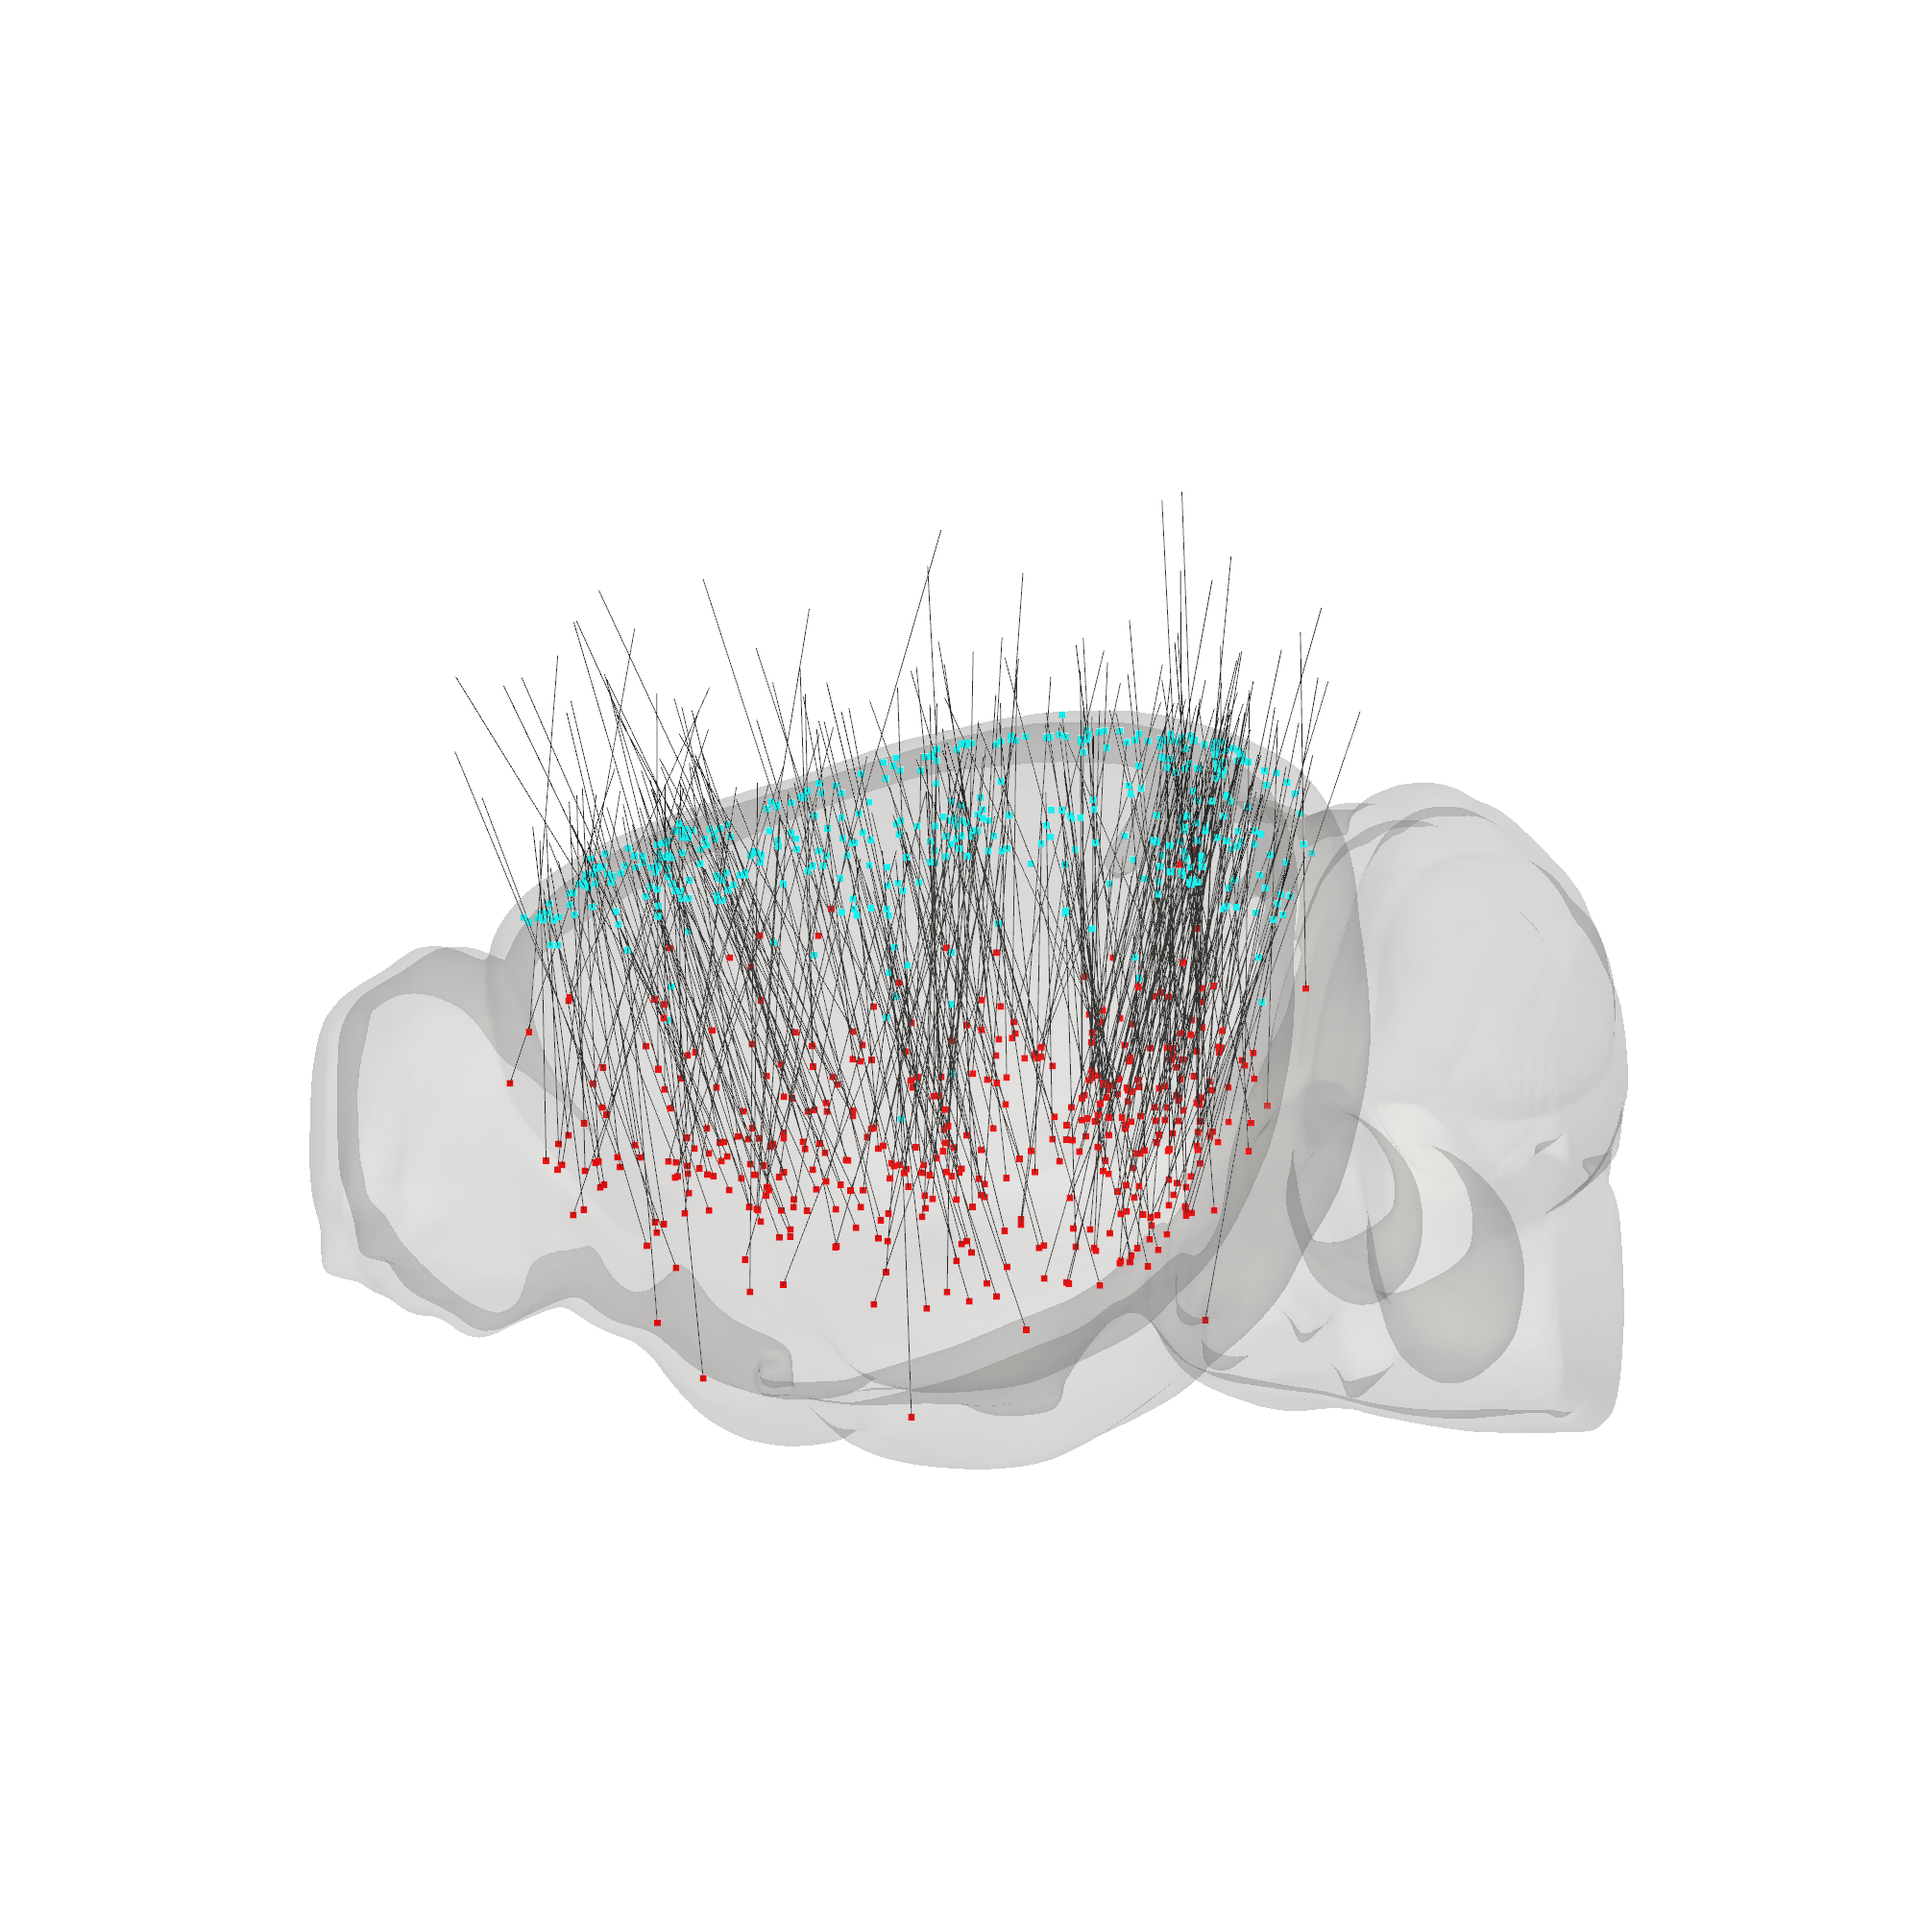
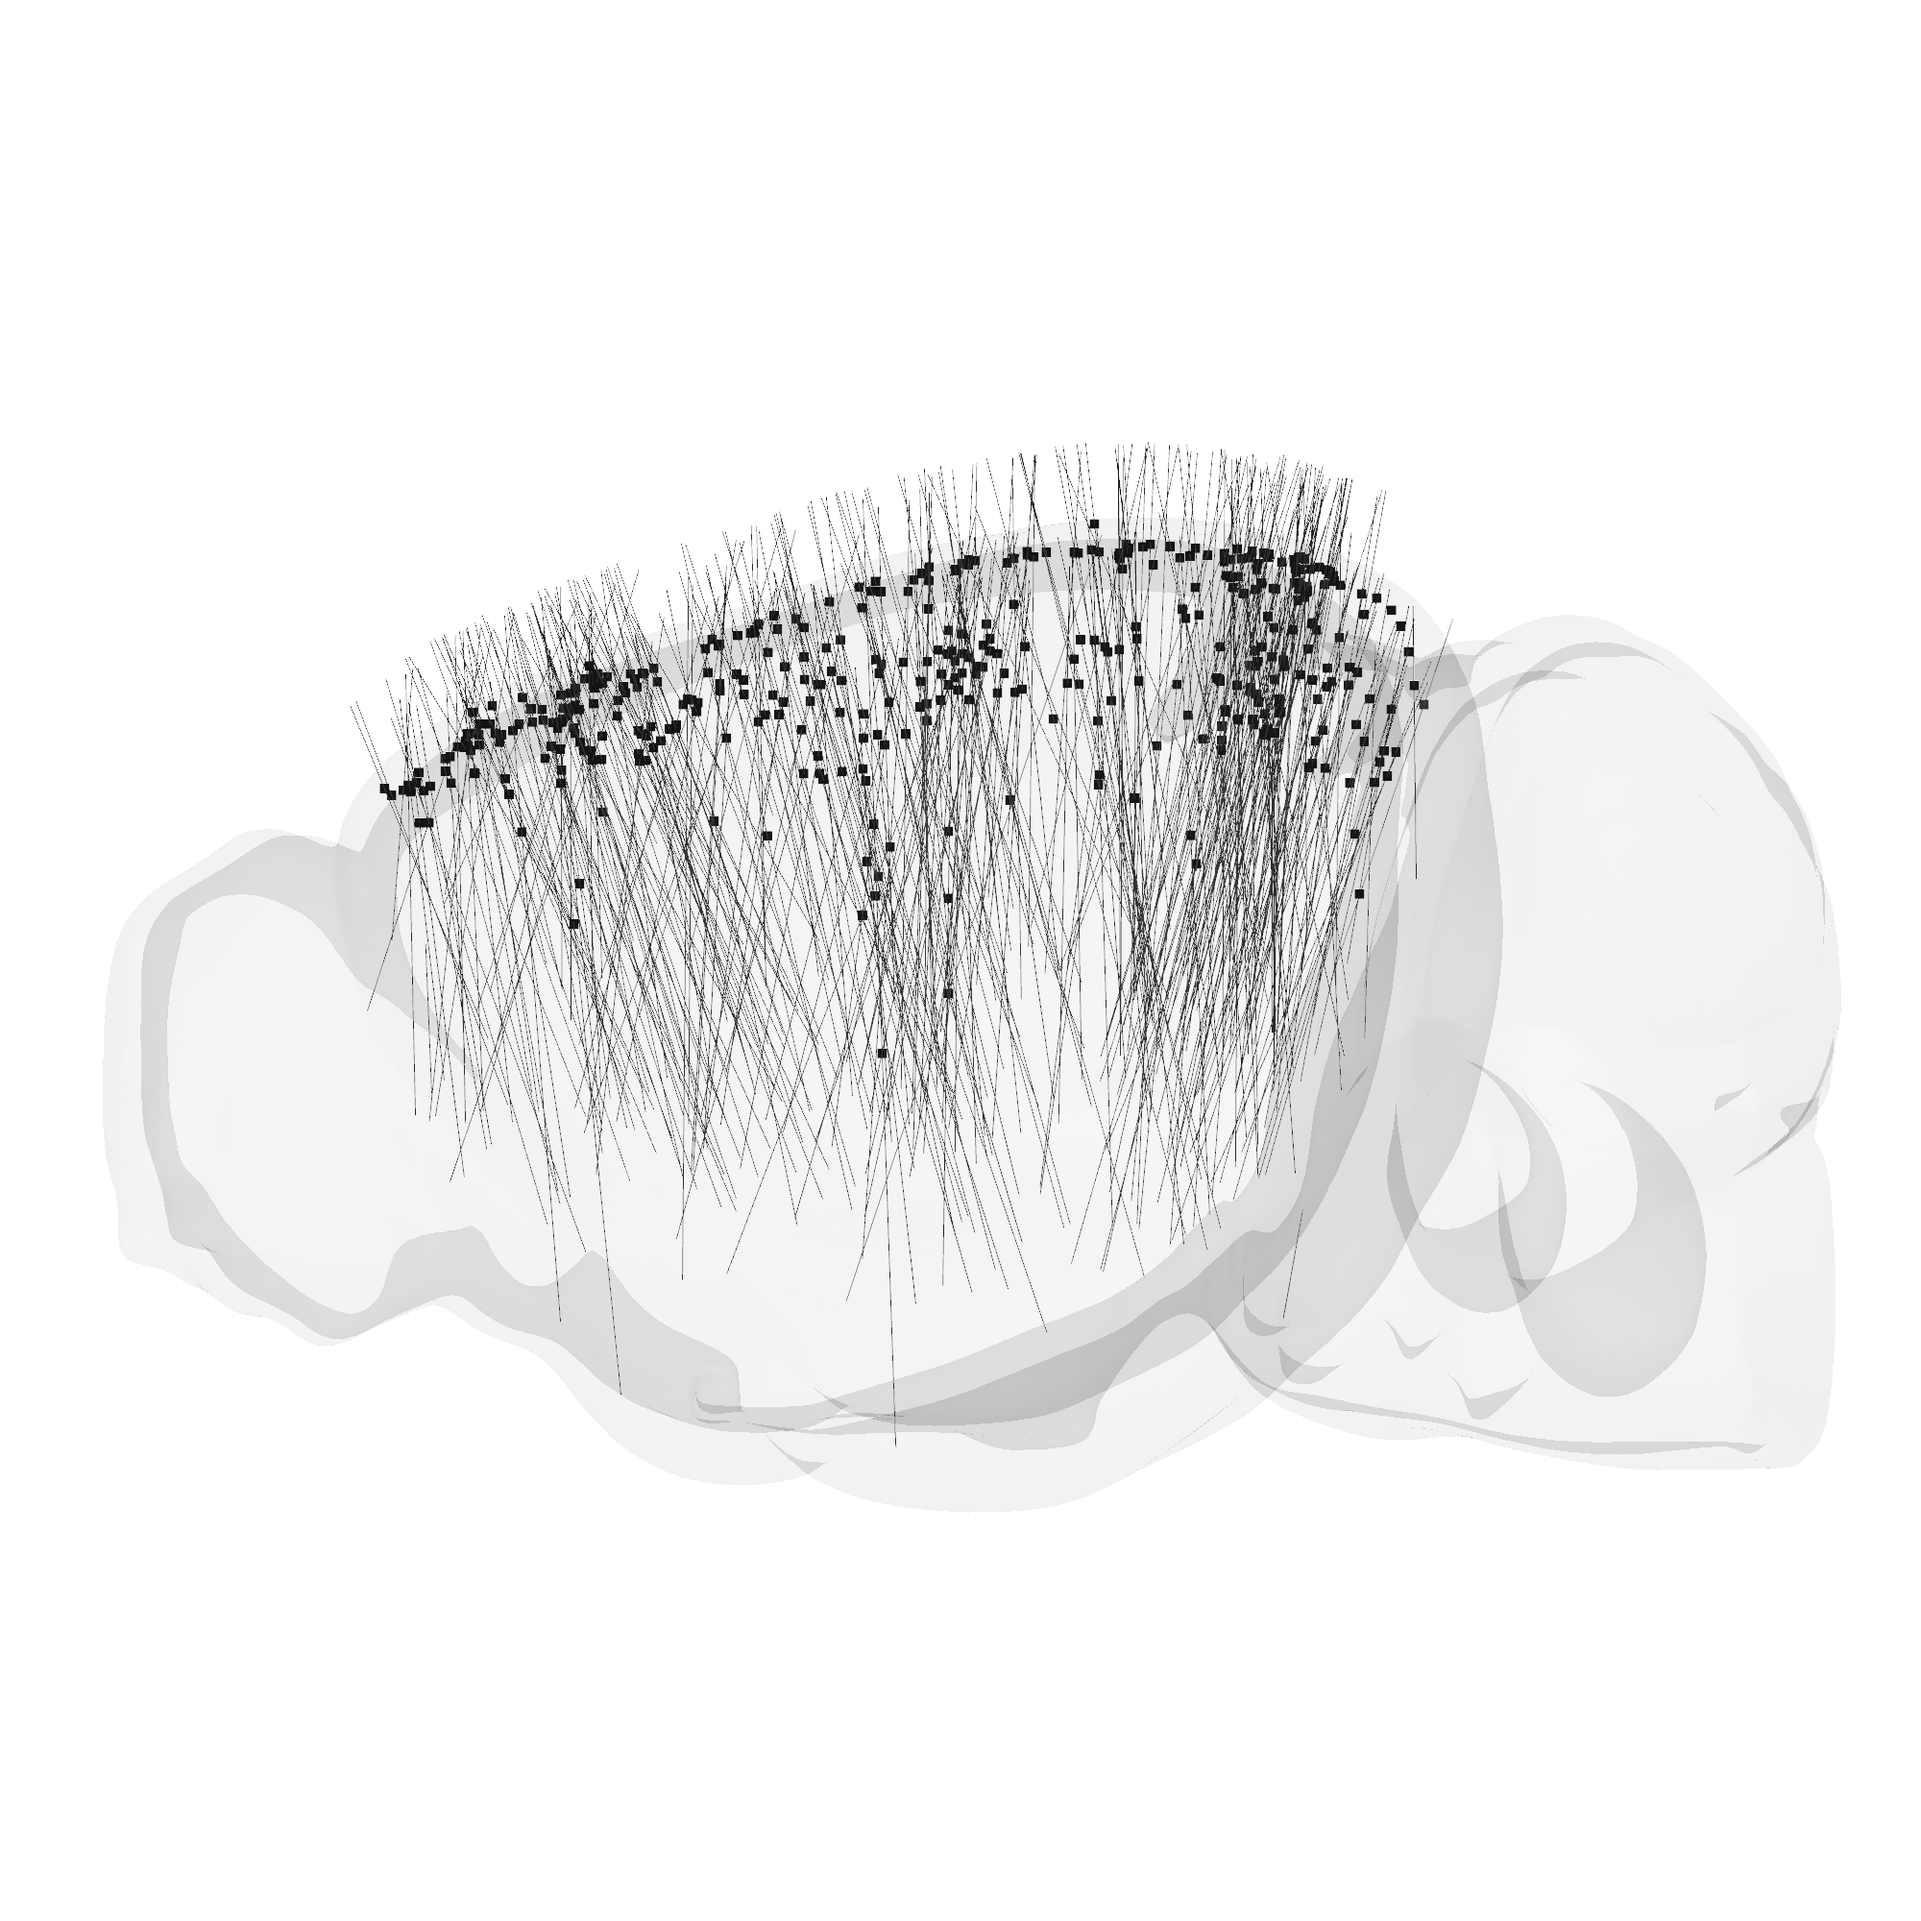
Update insertions

Changed region(s): [[0.062, 0.248, 0.899, 0.775], [0.899, 0.372, 0.961, 0.434], [0.93, 0.558, 0.961, 0.589]]

diff --git a/figures/fig1/insertions/marimo_nb.py b/figures/fig1/insertions/marimo_nb.py
@@ -120,7 +120,8 @@ def _(
     trimesh,
 ):
     PROBE_LENGTH_MM = 3.840
-    PROBE_RADIUS_MM = 0.005
+    PROBE_RADIUS_MM = 0.0035
+    PROBE_SURFACE_CLEARANCE_MM = 0.6
 
     def load_electrodes(
         *,
@@ -203,21 +204,50 @@ def _(
         matrix = trimesh.geometry.align_vectors([0.0, 0.0, -1.0], direction / norm)
         return matrix[:3, :3]
 
-    def make_probe_mesh() -> trimesh.Trimesh:
+    def probe_length_to_surface(
+        tip: np.ndarray,
+        tip_to_base: np.ndarray,
+        brain: trimesh.Trimesh,
+        *,
+        clearance_mm: float = PROBE_SURFACE_CLEARANCE_MM,
+    ) -> float:
+        """Find the probe length needed to end at a fixed surface clearance."""
+        direction = np.asarray(tip_to_base, dtype=np.float64)
+        direction /= np.linalg.norm(direction)
+        locations, _, _ = brain.ray.intersects_location(
+            ray_origins=np.asarray([tip]),
+            ray_directions=np.asarray([direction]),
+            multiple_hits=True,
+        )
+        distances = np.dot(locations - tip, direction)
+        positive_distances = distances[distances > 1e-6]
+        if positive_distances.size == 0:
+            raise ValueError("Could not find the brain surface along a probe direction")
+        return float(positive_distances.min() + clearance_mm)
+
+    def make_probe_mesh(length_mm: float = PROBE_LENGTH_MM) -> trimesh.Trimesh:
         """Make a thin mesh whose local tip is at the origin."""
         mesh = trimesh.creation.cylinder(
             radius=PROBE_RADIUS_MM,
-            height=PROBE_LENGTH_MM,
+            height=length_mm,
             sections=8,
         )
-        mesh.apply_translation([0.0, 0.0, -PROBE_LENGTH_MM / 2.0])
+        mesh.apply_translation([0.0, 0.0, -length_mm / 2.0])
         return mesh
 
     def build_scene(
         electrodes_df: pl.DataFrame,
         brain: Path | trimesh.Trimesh | None = None,
+        *,
+        normalize_probe_lengths: bool = True,
+        surface_clearance_mm: float = PROBE_SURFACE_CLEARANCE_MM,
     ):
-        """Build a low-point scene from electrode coordinates."""
+        """Build a low-point scene from electrode coordinates.
+
+        When ``normalize_probe_lengths`` is enabled, each probe ends at the
+        same clearance from the brain surface along its measured insertion
+        direction.
+        """
         tip_df = electrodes_df.filter(pl.col("loc") == "tip")
         base_df = electrodes_df.filter(pl.col("loc") == "base")
         if tip_df.height == 0 or base_df.height == 0:
@@ -249,12 +279,9 @@ def _(
         assets: dict[str, AssetSpec] = {}
         scene = Scene()
 
-        # PyVista point actors have one material per actor. Split the original
-        # per-particle colors into red tips and cyan bases.
-        for loc, df, color in (
-            ("tip", tip_df, "#ff0000"),
-            ("base", base_df, "#00ffff"),
-        ):
+        # PyVista point actors have one material per actor. Render only the
+        # magenta bases; tip coordinates are still used to position the probes.
+        for loc, df, color in (("base", base_df, "#000000"),):
             asset_key = f"electrodes:{loc}"
             assets[asset_key] = AssetSpec(
                 key=asset_key,
@@ -262,7 +289,7 @@ def _(
                 default_material=Material(
                     name=f"electrodes-{loc}",
                     color_hex_str=color,
-                    point_size=7.0,
+                    point_size=10.0,
                 ),
                 points=PointsTransformable(
                     points_in_scene_mm(df, ml_midline_mm=ml_midline_mm)
@@ -275,18 +302,6 @@ def _(
                     tags={"electrodes", loc},
                 )
             )
-
-        probe_asset_key = "probe:electrode"
-        assets[probe_asset_key] = AssetSpec(
-            key=probe_asset_key,
-            kind="mesh",
-            default_material=Material(
-                name="probe",
-                color_hex_str="#424242",
-                opacity=1.0,
-            ),
-            mesh=MeshTransformable(make_probe_mesh()),
-        )
 
         # The measured tip-to-base direction avoids Urchin's azimuth/elevation
         # convention and keeps coordinates in the scene's ML/DV/AP order.
@@ -304,6 +319,28 @@ def _(
             )[0]
             session_id = insertion["session_id"][0]
             group_name = insertion["group_name"][0]
+            tip_to_base = base - tip
+            probe_length = (
+                probe_length_to_surface(
+                    tip,
+                    tip_to_base,
+                    brain_geometry,
+                    clearance_mm=surface_clearance_mm,
+                )
+                if normalize_probe_lengths
+                else PROBE_LENGTH_MM
+            )
+            probe_asset_key = f"probe:{session_id}:{group_name}"
+            assets[probe_asset_key] = AssetSpec(
+                key=probe_asset_key,
+                kind="mesh",
+                default_material=Material(
+                    name="probe",
+                    color_hex_str="#424242",
+                    opacity=1.0,
+                ),
+                mesh=MeshTransformable(make_probe_mesh(probe_length)),
+            )
             node_key = f"probe:{session_id}:{group_name}"
             scene.upsert(
                 NodeInstance(
@@ -313,7 +350,7 @@ def _(
                     transform=TransformChain.new(
                         [
                             AffineTransform(
-                                rotation=probe_rotation(base - tip),
+                                rotation=probe_rotation(tip_to_base),
                                 translation=tip,
                             )
                         ]
@@ -327,7 +364,7 @@ def _(
             kind="mesh",
             default_material=Material(
                 name="brain",
-                color_hex_str="#b8b8b8",
+                color_hex_str="#a5a5a5",
                 opacity=0.15,
             ),
             mesh=MeshTransformable(brain_geometry),
@@ -343,15 +380,23 @@ def _(
         brain: Path | trimesh.Trimesh | None = None,
         width: int = 2000,
         height: int = 2000,
+        normalize_probe_lengths: bool = True,
+        surface_clearance_mm: float = PROBE_SURFACE_CLEARANCE_MM,
+        camera_zoom: float = 1.25,
     ):
         """Render named anatomical views and save one PNG per view."""
-        catalog, scene = build_scene(electrodes_df, brain=brain)
+        catalog, scene = build_scene(
+            electrodes_df,
+            brain=brain,
+            normalize_probe_lengths=normalize_probe_lengths,
+            surface_clearance_mm=surface_clearance_mm,
+        )
         plotter = pv.Plotter(
             off_screen=True,
             window_size=(width, height),
         )
-        # Urchin's default camera background is white; retain it so the
-        # optional black transparent brain surface remains visible.
+        # Keep a white render background for contrast; screenshot export below
+        # writes it as transparent pixels.
         plotter.set_background("white")
 
         adapter = RendererAdapter(
@@ -393,9 +438,10 @@ def _(
         for view_name, set_view in views.items():
             set_view()
             plotter.reset_camera()
+            plotter.camera.zoom(camera_zoom)
             plotter.render()
             view_output = output.with_name(f"{output.stem}_{view_name}{output.suffix}")
-            plotter.screenshot(str(view_output), transparent_background=False)
+            plotter.screenshot(str(view_output), transparent_background=True)
             snapshots.append(view_output)
 
         plotter.close()
@@ -551,6 +597,8 @@ def _(Path, load_pinpoint_atlas_mesh, on_codeocean):
     )
     width = 2000
     height = 2000
+    normalize_probe_lengths = True
+    camera_zoom = 1.25
     return (
         atlas_name,
         atlas_resolution_um,
@@ -558,6 +606,8 @@ def _(Path, load_pinpoint_atlas_mesh, on_codeocean):
         atlas_version,
         brain,
         height,
+        camera_zoom,
+        normalize_probe_lengths,
         output,
         width,
     )
@@ -573,6 +623,8 @@ def _(
     brain,
     electrodes_df,
     height,
+    camera_zoom,
+    normalize_probe_lengths,
     output,
     render,
     width,
@@ -593,6 +645,8 @@ def _(
         brain=brain,
         width=width,
         height=height,
+        normalize_probe_lengths=normalize_probe_lengths,
+        camera_zoom=camera_zoom,
     )
     if isinstance(rendered, list):
         for snapshot in rendered:
